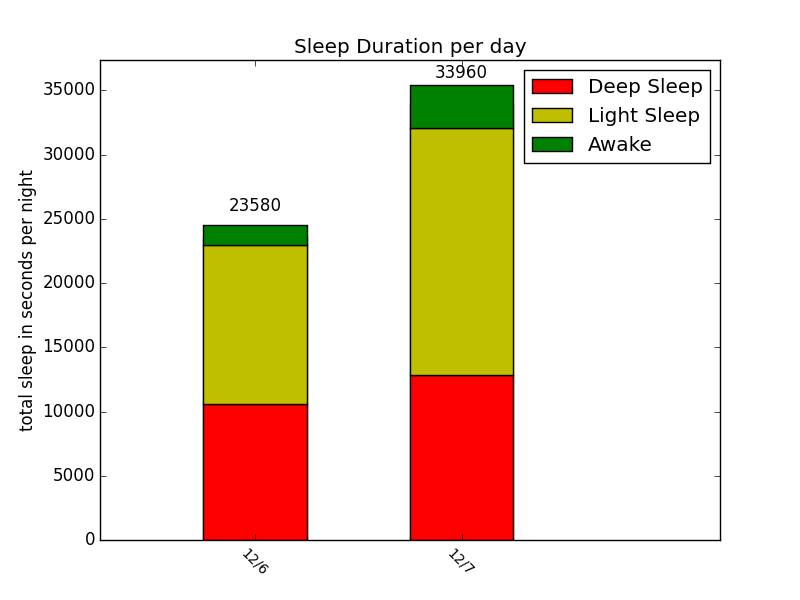
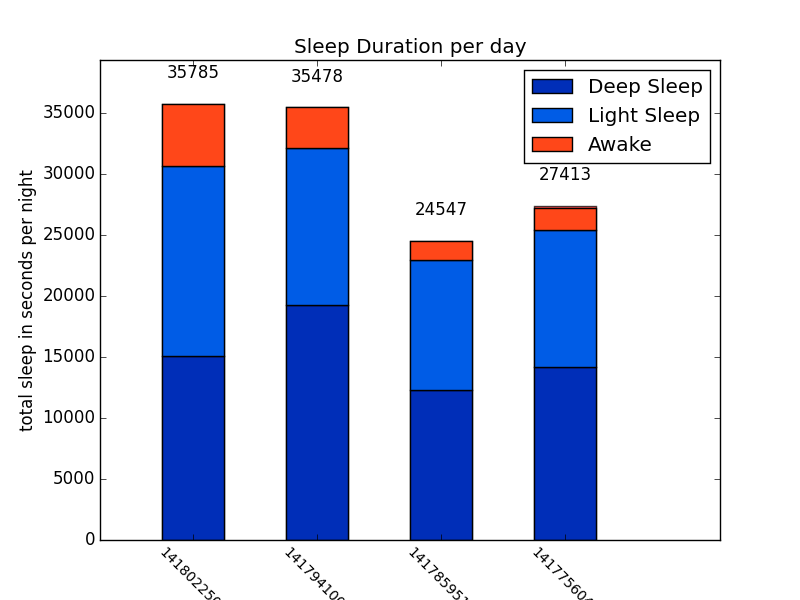
added the possibility to also work with json obtained via the jawbone api

diff --git a/main.py b/main.py
@@ -2,36 +2,14 @@ __author__ = 'TPei'
 import csv
 import datetime
 from date_parser import *
+from csv_parser import *
 from plotter import *
+import json
+from pprint import pprint
 
 
-def handle_data():
-    """
-    parse data in csv file
-    :return: list with parsed data
-    """
-    column_names = ['start_date', 'end_date', 'total_sleep_time', 'total_sleep_val', 'light_sleep_time',
-                    'light_sleep_val', 'light_sleep_percent', 'sound_sleep_time', 'sound_sleep_val',
-                    'sound_sleep_percent', 'wake_time', 'wake_val', 'wake_percent', 'graphic']
-
-    # parse csv
-    with open('res/sleep.csv', newline='') as csvfile:
-        sleep_reader = csv.reader(csvfile, delimiter=',', quotechar='"')
-        #print(column_names)
-        sleep_data = []
-        for row in sleep_reader:
-            # parse all time strings to datetimes / timedeltas
-            row[0] = parse_date(row[0])
-            row[1] = parse_date(row[1])
-            row[2] = parse_hm_time(row[2])
-            row[4] = parse_hm_time(row[4])
-            row[7] = parse_hm_time(row[7])
-            row[10] = parse_hm_time(row[10])
-            sleep_data.append(row)
-    return sleep_data
-
-if __name__ == '__main__':
-    sleep_data = handle_data()
+def plot_from_csv():
+    sleep_data = parse_csv()
     total_times = []
     deep_times = []
     light_times = []
@@ -49,3 +27,31 @@ if __name__ == '__main__':
 
     #plot_bar_chart(total_times, deep_times, light_times, awake_times, labels)
     plot_line_graph(total_times, deep_times, light_times, awake_times, labels)
+
+
+def plot_from_json():
+    json_data = open('res/sleep.json')
+    data = json.load(json_data)
+    items = data['data']['items']
+
+    total_times = []
+    deep_times = []
+    light_times = []
+    awake_times = []
+    labels = []
+
+    for item in items:
+        labels.append(item['time_completed'])
+        item = item['details']
+        total_times.append(item['duration'])
+        deep_times.append(item['sound'])
+        light_times.append(item['light'])
+        awake_times.append(item['awake'])
+
+    plot_line_graph(total_times, deep_times, light_times, awake_times)
+    #plot_bar_chart(total_times, deep_times, light_times, awake_times, labels)
+    json_data.close()
+
+if __name__ == '__main__':
+    #plot_from_csv()
+    plot_from_json()

diff --git a/csv_parser.py b/csv_parser.py
@@ -1,0 +1,27 @@
+__author__ = 'TPei'
+
+
+def parse_csv():
+    """
+    parse data in csv file
+    :return: list with parsed data
+    """
+    column_names = ['start_date', 'end_date', 'total_sleep_time', 'total_sleep_val', 'light_sleep_time',
+                    'light_sleep_val', 'light_sleep_percent', 'sound_sleep_time', 'sound_sleep_val',
+                    'sound_sleep_percent', 'wake_time', 'wake_val', 'wake_percent', 'graphic']
+
+    # parse csv
+    with open('res/sleep.csv', newline='') as csvfile:
+        sleep_reader = csv.reader(csvfile, delimiter=',', quotechar='"')
+        #print(column_names)
+        sleep_data = []
+        for row in sleep_reader:
+            # parse all time strings to datetimes / timedeltas
+            row[0] = parse_date(row[0])
+            row[1] = parse_date(row[1])
+            row[2] = parse_hm_time(row[2])
+            row[4] = parse_hm_time(row[4])
+            row[7] = parse_hm_time(row[7])
+            row[10] = parse_hm_time(row[10])
+            sleep_data.append(row)
+    return sleep_data

diff --git a/README.md b/README.md
@@ -3,9 +3,14 @@ jawbone_sleep_visualizer
 
 Visualize sleep metrics recorded by the jawbone up band
 
+Uses either a provided .json file with all tracked sleeps,
+which can be obtained by using the jawbone api call "https://jawbone.com/nudge/api/v.1.1/users/@me/sleeps"
+and then be saved as a json file
 
-Uses the IFTTT recipe that backs up the general sleep metrics recorded by the jawbone up band
-Just add a csv download of the drive spreadsheet and add it to the res folder as sleep.csv
+or uses the IFTTT recipe that backs up the general sleep metrics recorded by the jawbone up band
+which can be downloaded as a csv file
+
+Just add sleep.json or sleep.csv to the res folder
 
 Creates a visualisation like so:
 ![Github languages](https://github.com/TPei/jawbone_sleep_visualizer/blob/master/img/sleep_line.png)
